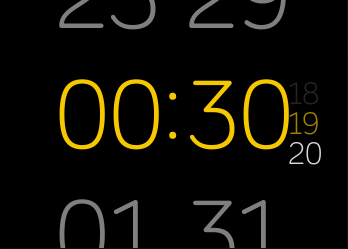
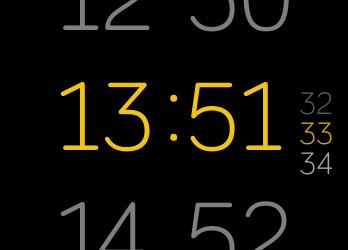
🚑 Fix colors custo not working on Versa

diff --git a/app/colors.ts b/app/colors.ts
@@ -1,3 +1,5 @@
+import * as layout from './layout'
+
 const COLORS = {
   foreground: '#f1c40f',
   background: '#ffffff',
@@ -23,7 +25,7 @@ export const setDigitsColors = (clockDigits: ClockDigits) => {
  * @param element DOM element to set the color if it's the middle one.
  */
 function setColorOnMiddleHourMinutes (element: Element) {
-  if (element.y === 150) {
+  if (element.y === layout.getMiddleHoursMinutesY()) {
     element.style.fill = COLORS.foreground
     return true
   }

diff --git a/app/layout.ts b/app/layout.ts
@@ -180,6 +180,15 @@ export const getBatteryPositionY = (chargeLevel: number, charging: boolean) => {
   return deviceBatteryVPos[vLayout]
 }
 
+export const getMiddleHoursMinutesY = () => {
+  const pos = {
+    Ionic: 150,
+    Versa: 180,
+  }
+
+  return pos[deviceType];
+}
+
 /** Returns next animation type according to the current Y coordinate. */
 export const getNextAnimationType = (config: LayoutPositionConfig): FinalType => {
   const { type, y } = config

diff --git a/README.md b/README.md
@@ -37,6 +37,10 @@ This clock face is compatible with:
 | ![screenshot1.png](./screenshots/screenshot1.png) | ![screenshot2.png](./screenshots/screenshot2.png) |
 | ![screenshot1.png](./screenshots/screenshot3.png) | ![screenshot2.png](./screenshots/screenshot4.png) |
 
+| Versa | ... |
+|-------|------|
+| ![screenshot versa 1](./screenshots/screenshot-versa1.png) | ![screenshot versa 2](./screenshots/screenshot-versa2.png) |
+
 ## Help
 
 The action zones that trigger changes in the user interface:
